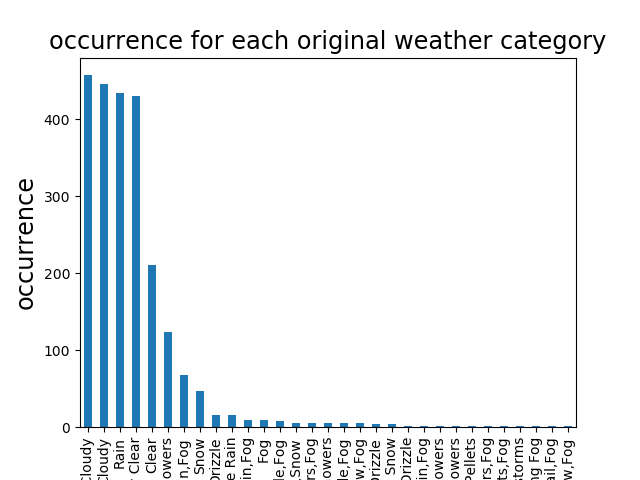
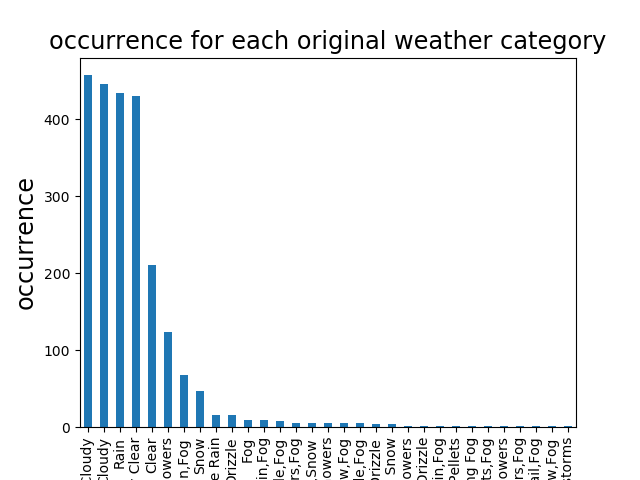
final

Changed region(s): [[0.625, 0.9062, 0.9062, 1.0], [0.3125, 0.9062, 0.5, 1.0], [0.5312, 0.9062, 0.5938, 1.0]]

diff --git a/weather_classifier.py b/weather_classifier.py
@@ -1,9 +1,7 @@
 import pandas as pd
 from sklearn.pipeline import make_pipeline
-from sklearn.preprocessing import MinMaxScaler, StandardScaler
 from sklearn.neighbors import KNeighborsClassifier
 from sklearn.svm import SVC
-from sklearn.preprocessing import FunctionTransformer
 from sklearn.model_selection import train_test_split
 from sklearn.decomposition import PCA
 import sys
@@ -14,13 +12,18 @@ import numpy as np
 import re
 import matplotlib.pyplot as plt
 from sklearn.metrics import classification_report
+from sklearn.naive_bayes import GaussianNB
 
 
 pd.options.mode.chained_assignment = None
 
 
-
 def find_time(filepath):
+    """
+    to extract time from the path of the image
+    :param filepath: the path of the image
+    :return: substring containing the time information
+    """
     pattern = re.compile(r'20\d+0000')
     m = pattern.search(filepath)
     if m:
@@ -30,19 +33,32 @@ def find_time(filepath):
 
 
 def format_time(string):
+    """
+    to format time to be in the form xxxx-xx-xx xx:00
+    :param string: substring containing the time information
+    :return: reformatted time string
+    """
     return string[:4] + '-' + string[4:6] + '-' + string[6:8] + ' ' + string[8:10] + ':00'
 
 
-# read from a folder and concatenate into a dataframe
 def read_csvs(path):
-    path = r'./weather'
+    """
+    to read all csv files from a folder and concatenate them into one dataframe
+    :param path: the location of the folder
+    :return: one dataframe containing records from all csv files
+    """
     files = glob.iglob(os.path.join(path, "*.csv"))
     weather = pd.concat((pd.read_csv(f, header=14) for f in files), ignore_index=True)
     return weather
 
 
-# read all the images in the folder into one big numpy array, return both this array and the series containin image names
 def read_images(path):
+    """
+    to read all the images in a folder into one big numpy array
+    :param path: the location of the folder
+    :return: images: one numoy array containing all the images
+             filenames: a pandas Series containing all image names
+    """
     files = glob.iglob(os.path.join(path, "*.jpg"))
     collection = []
     collection_names = []
@@ -56,6 +72,11 @@ def read_images(path):
 
 
 def plot_occurence(weather_column):
+    """
+    to plot the occurrence of original weather descriptions
+    :param weather_column: the Series containing weather descriptions for records
+    :return: None
+    """
     weather_column.value_counts().plot(kind='bar')
     plt.title('occurrence for each original weather category', fontsize='xx-large')
     plt.ylabel('occurrence', fontsize='xx-large')
@@ -64,6 +85,11 @@ def plot_occurence(weather_column):
 
 
 def cleaning(df):
+    """
+    to clean the dataframe such than the unique four weather categories are Rain, Clear, Cloudy and Snow
+    :param df: a dataframe containing the weather records
+    :return: cleaned dataframe
+    """
     df['Weather'] = df['Weather'].str.replace('Moderate ', '')
     df['Weather'] = df['Weather'].str.replace(' Showers', '')
     df['Weather'] = df['Weather'].str.replace('Mainly ', '')
@@ -76,6 +102,11 @@ def cleaning(df):
 
 
 def exclude_night(df):
+    """
+    to exclude weather records recorded at night and early morning.
+    :param df: a dataframe containing the weather records
+    :return: filtered new dataframe
+    """
     df = df[(df['Time'] != '06:00') & (df['Time'] != '07:00')]
     df = df[~((df['Month'] == 10) & (df['Time'] == '19:00'))]
     df = df[~(((df['Month'] == 11) | (df['Month'] == 12) | (df['Month'] == 1))
@@ -83,11 +114,31 @@ def exclude_night(df):
     return df
 
 
-def ml_analysis(X, y):
-    X_train, X_test, y_train, y_test = train_test_split(X, y)
+def get_image_time(image_name):
+    """
+    to construct a dataframe containing formatted time information from image names
+    :param image_name: a dataframe containing image names
+    :return: a dataframe containing formatted time information for images
+    """
+    image_time = image_name.apply(find_time)
+    image_time = image_time.apply(format_time)
+    image_time = image_time.to_frame(name='time')
+    image_time.reset_index(inplace=True)
+    image_time.set_index('time', inplace=True)
+    return image_time
 
+
+def svc_analysis(X, y, pca_parameter):
+    """
+    to do a SVC analysis
+    :param X: training values
+    :param y: target values
+    :param pca_parameter: PCA parameter
+    :return: None
+    """
+    X_train, X_test, y_train, y_test = train_test_split(X, y)
     model = make_pipeline(
-        PCA(1000),
+        PCA(pca_parameter),
         SVC(kernel='linear', C=0.1)
     )
     model.fit(X_train, y_train)
@@ -95,56 +146,81 @@ def ml_analysis(X, y):
     print(classification_report(y_test, model.predict(X_test)))
 
 
-def knn_analysis(X, y):
+def knn_analysis(X, y, pca_parameter):
+    """
+    to do a KNN analysis
+    :param X: training values
+    :param y: target values
+    :param pca_parameter: PCA parameter
+    :return: None
+    """
     X_train, X_test, y_train, y_test = train_test_split(X, y)
-
     model = make_pipeline(
-        PCA(1500),
-        KNeighborsClassifier(n_neighbors=5),
+        PCA(pca_parameter),
+        KNeighborsClassifier(n_neighbors=8),
     )
     model.fit(X_train, y_train)
-    print("score for knn model:", model.score(X_test, y_test))
-    print(classification_report(y_test, model.predict(X_test)))
+    print("score for KNN model:", model.score(X_test, y_test))
+
+
+def gaussian_analysis(X, y, pca_parameter):
+    """
+    to do a GaussianNB analysis
+    :param X: training values
+    :param y: target values
+    :param pca_parameter: PCA parameter
+    :return: None
+    """
+    X_train, X_test, y_train, y_test = train_test_split(X, y)
+    model = make_pipeline(
+        PCA(pca_parameter),
+        GaussianNB()
+    )
+    model.fit(X_train, y_train)
+    print("score for gaussianNB model:", model.score(X_test, y_test))
+
+
+def analysis(X, y, pca_parameter):
+    """
+    to use different machine learning models to do the analysis
+    :param X: training values
+    :param y: target values
+    :param pca_parameter: PCA parameter
+    :return: None
+    """
+    svc_analysis(X, y, pca_parameter)
+    # knn_analysis(X, y, pca_parameter)
+    # gaussian_analysis(X, y, pca_parameter)
+
 
 def main():
-    csv_path = r'./weather'
-    weather = read_csvs(csv_path)
-    weather = weather.dropna(axis=1, how='all')  # drop useless flag columns
+    csv_path = sys.argv[1]
+    image_path = sys.argv[2]
+    weather = read_csvs(csv_path)  # read all csv files in the folder
+    weather = weather.dropna(axis=1, how='all')  # drop empty flag columns
     weather = weather.drop('Data Quality', axis=1)
-
-    # read all the images in the folder into one big numpy array
-    image_path = r'./images'
-    images, filenames = read_images(image_path)
-
-    filenames = filenames.apply(find_time)
-    filenames = filenames.apply(format_time)
-    filenames = filenames.to_frame(name='time')
-    filenames.reset_index(inplace=True)
-    filenames.set_index('time', inplace=True)
-
     weather = exclude_night(weather)
+    images, filenames = read_images(image_path)  # read all images and image names in the folder
+    image_times = get_image_time(filenames)
 
-    weather_with_image = weather.join(filenames, on='Date/Time')
+    # join two dataframes to make the image index associated with corresponding weather record
+    weather_with_image = weather.join(image_times, on='Date/Time')
     weather_with_image = weather_with_image[pd.notnull(weather_with_image['index']) & pd.notnull(weather_with_image['Weather'])]
     weather_with_image['index'] = weather_with_image['index'].astype('int', copy=False)
 
-    new_weather = weather_with_image.filter(['Weather', 'index'])
+    new_weather = weather_with_image.filter(['Weather', 'index'])  # get a new dataframe containing only needed columns
     new_weather.reset_index(inplace=True)
     new_weather = new_weather.drop('level_0', axis=1)
     plot_occurence(new_weather['Weather'])
-
-    new_weather = cleaning(new_weather)
+    new_weather = cleaning(new_weather)  # do the cleaning on weather descriptions
     print(new_weather.groupby(new_weather['Weather']).count()['index'])
-    print(new_weather.shape)
 
     index_array = np.array(new_weather['index'])
-    used_images = images[index_array]
-    X = used_images.reshape(used_images.shape[0], -1)
+    used_images = images[index_array]  # filter out images which do not have corresponding weather records
+    X = used_images.reshape(used_images.shape[0], -1)  # flatten images
     y = new_weather.as_matrix(['Weather'])
     y = np.ravel(y)
-    ml_analysis(X, y)
-    #knn_analysis(X, y)
-
+    analysis(X, y, 1000)  # PCA parameter is 1000
 
 
 if __name__ == '__main__':
